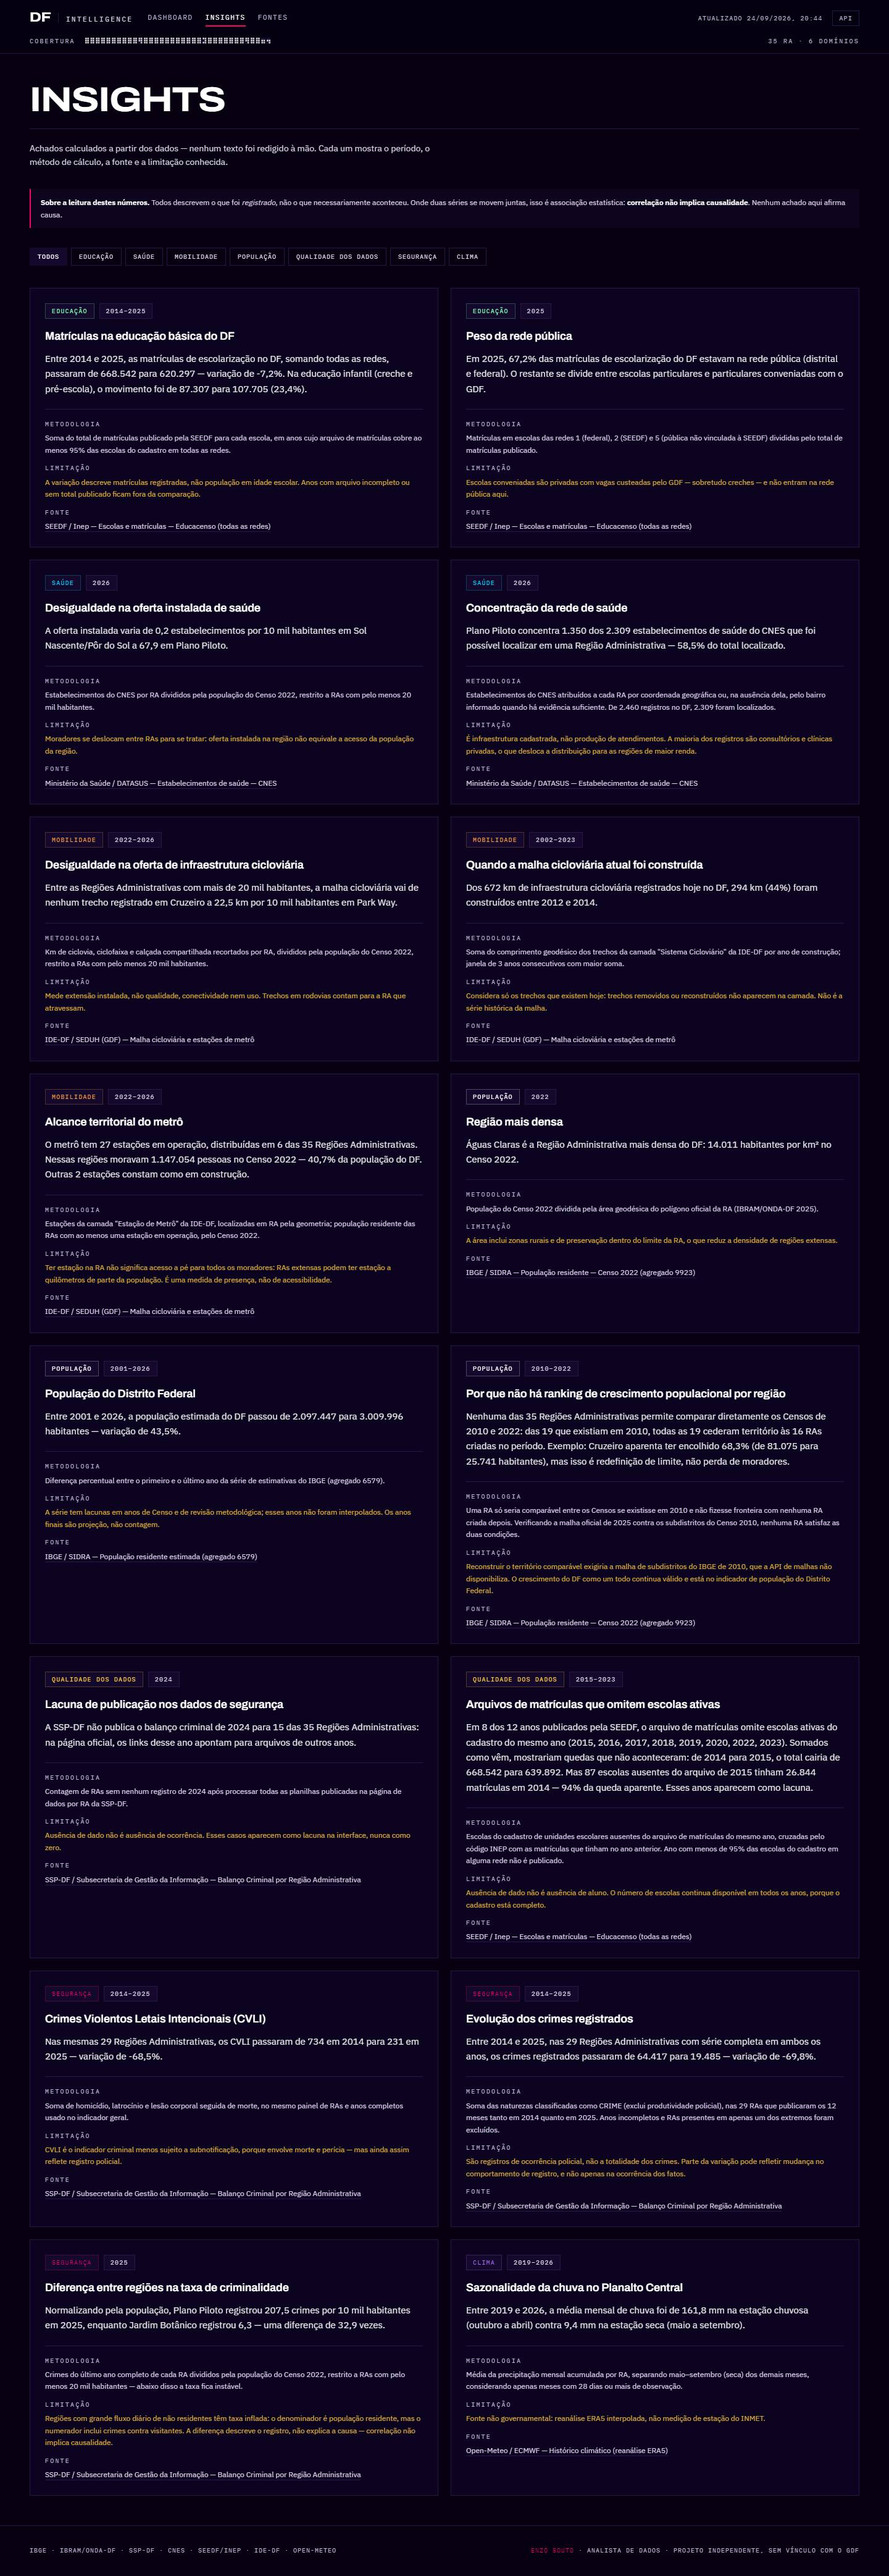
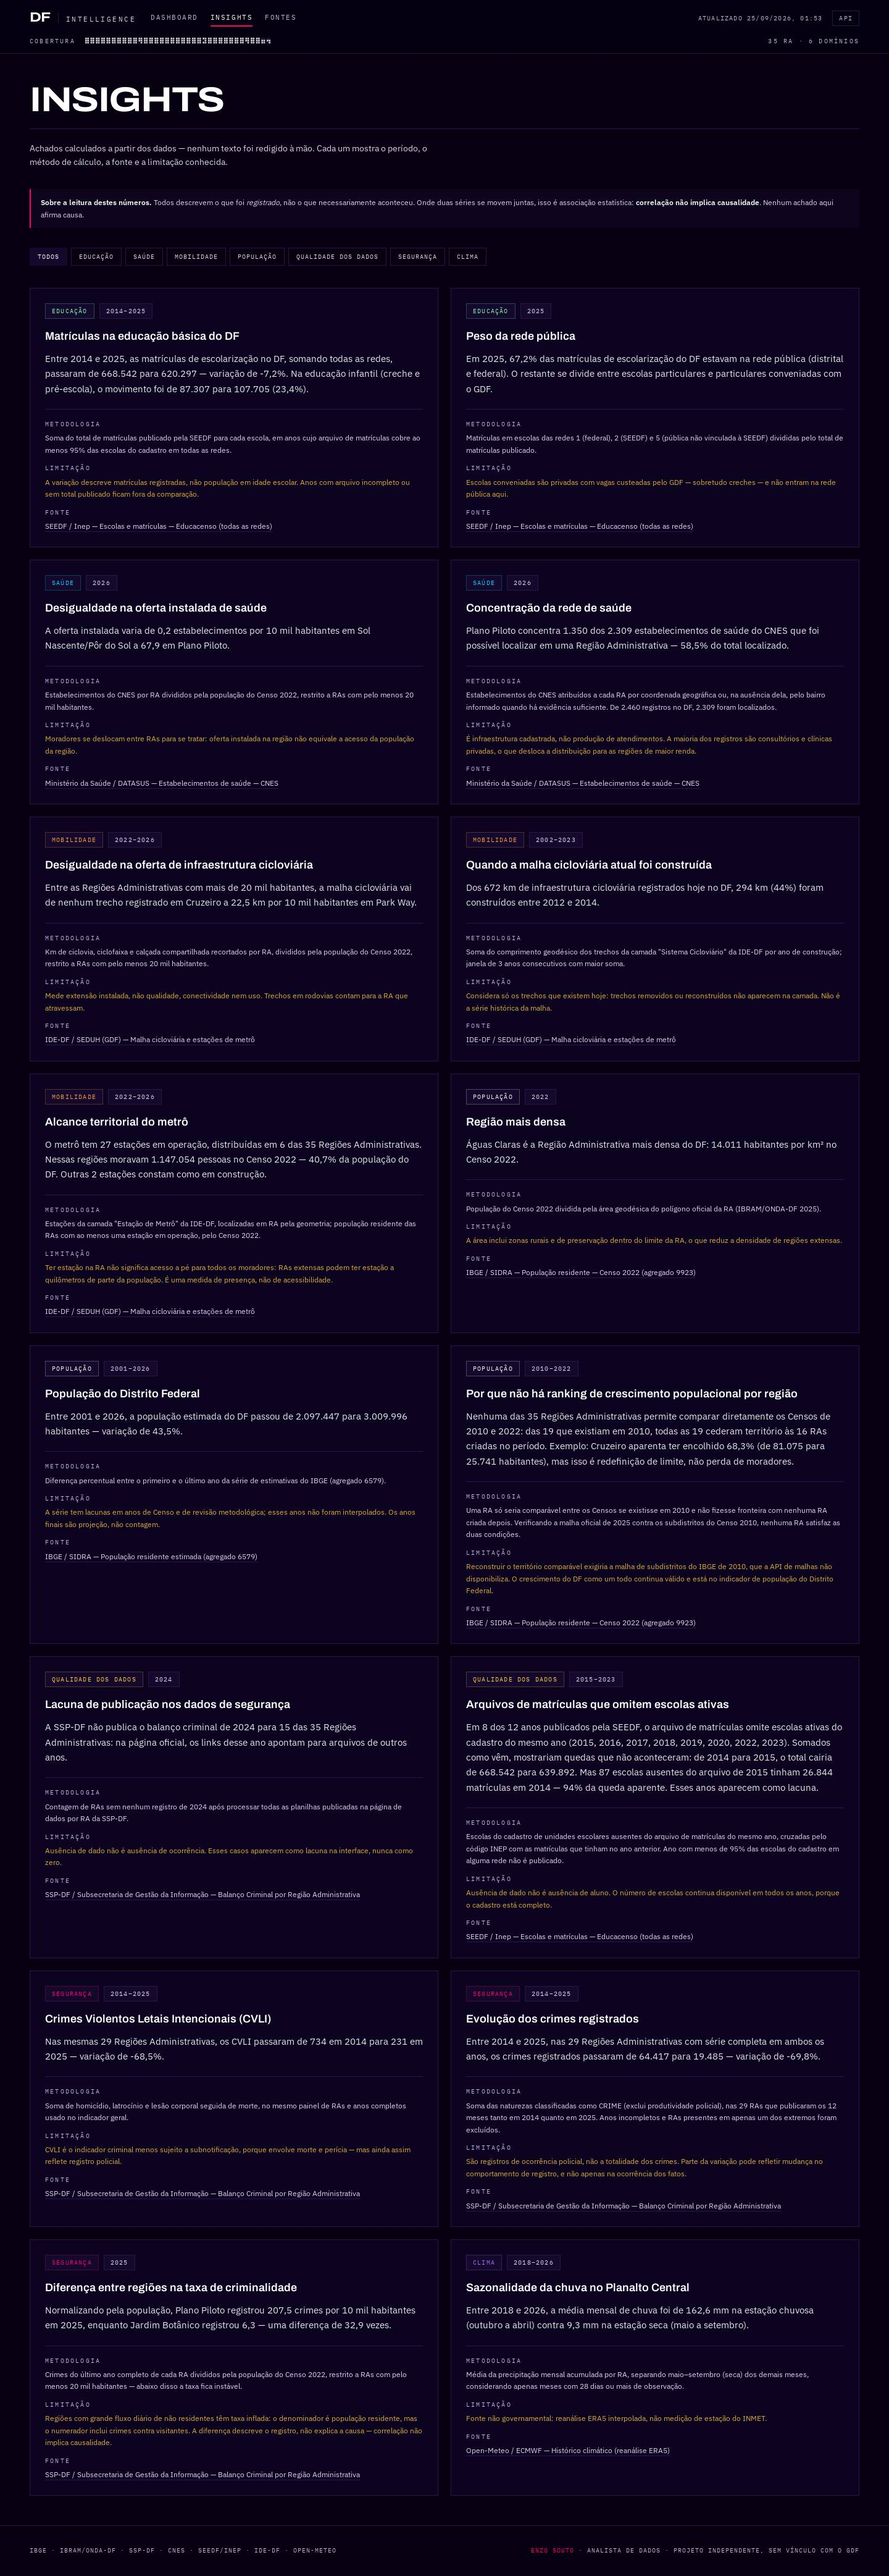
Traz os prints e números do README gerados pelo pipeline

diff --git a/README.md b/README.md
@@ -209,7 +209,7 @@ erDiagram
 | `fct_education_enrollment` | escola × ano | 13.293 |
 | `fct_mobility_bikeway` | trecho cicloviário | 2.308 |
 | `fct_mobility_station` | estação de metrô | 29 |
-| `fct_weather_daily` | região × dia | 98.630 |
+| `fct_weather_daily` | região × dia | 111.440 |
 | `mart_insights` | achado calculado | 16 |
 <!-- /gerado:tabela -->
 
